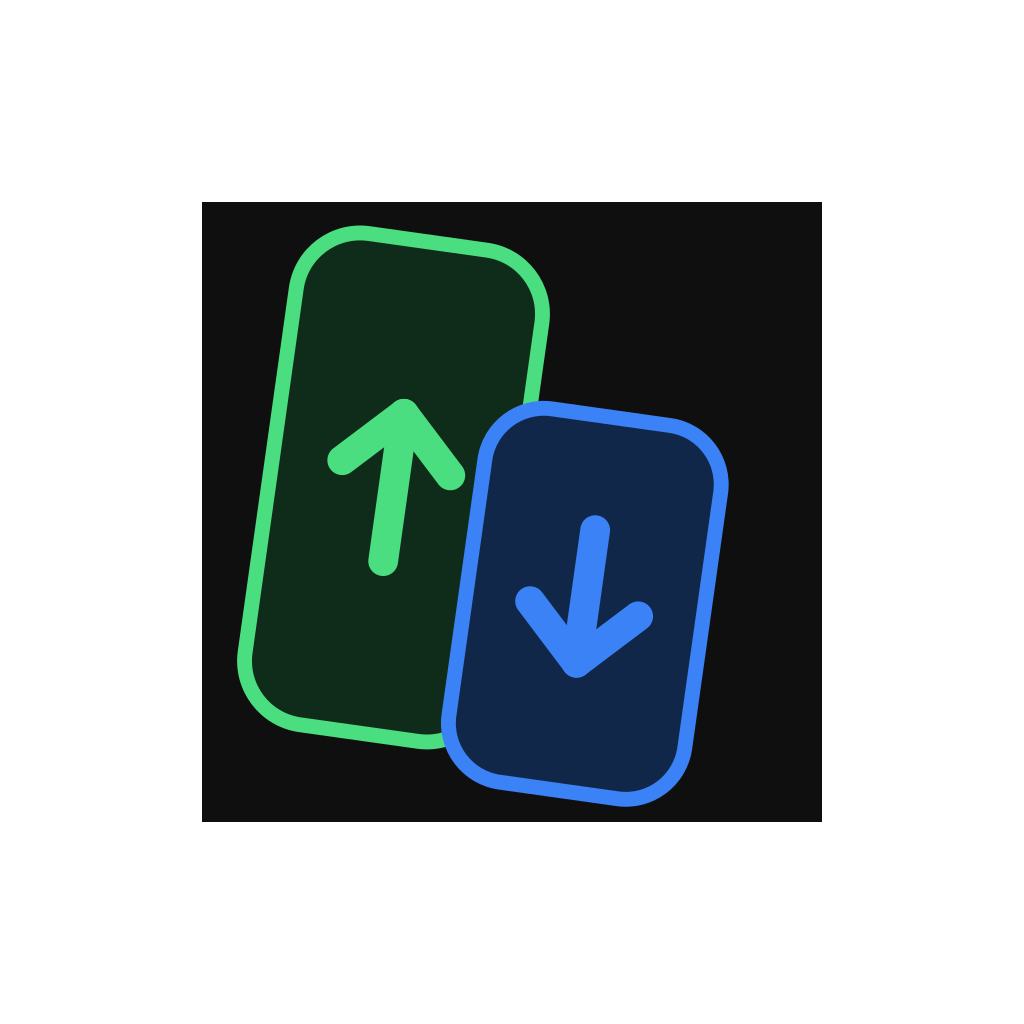
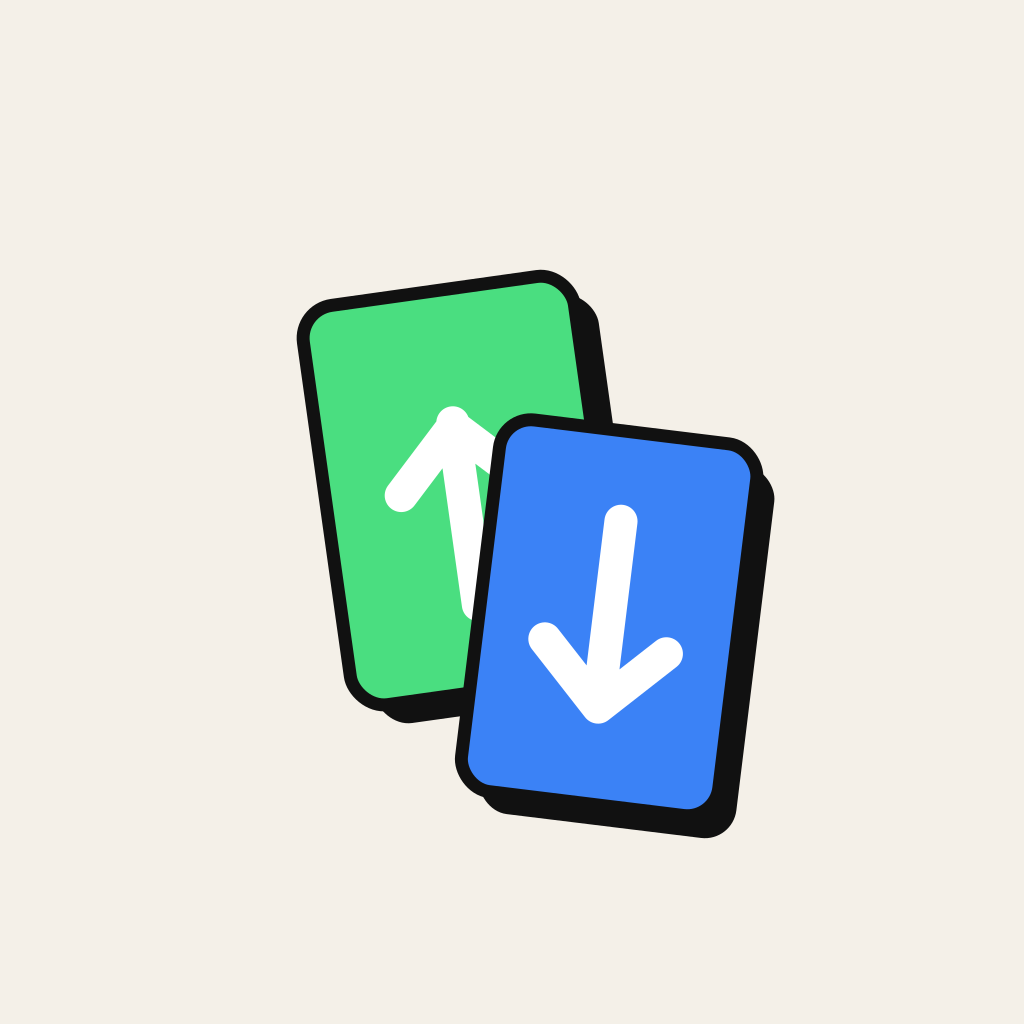
chore: assets updated as per new design

diff --git a/assets/svg/ClipDropLogo.tsx b/assets/svg/ClipDropLogo.tsx
@@ -11,7 +11,11 @@ interface Props {
   blueTranslateY: SharedValue<number>;
 }
 
-const ClipDropLogo = ({ size = 120, greenTranslateY, blueTranslateY }: Props) => {
+const ClipDropLogo = ({
+  size = 120,
+  greenTranslateY,
+  blueTranslateY,
+}: Props) => {
   const greenAnimatedProps = useAnimatedProps(() => ({
     transform: [{ translateY: greenTranslateY.value }],
   }));
@@ -22,23 +26,35 @@ const ClipDropLogo = ({ size = 120, greenTranslateY, blueTranslateY }: Props) =>
 
   return (
     <Svg width={size} height={size} viewBox="0 0 125 125">
-      {/* Upload Card - green, slides up from bottom */}
+      {/* Upload Card */}
       <AnimatedG animatedProps={greenAnimatedProps}>
         <G rotation={8} origin="42,55">
+          {/* Hard shadow */}
+          <Rect x="18" y="12" width="50" height="100" rx="13" fill="#111111" />
+
+          {/* Card */}
           <Rect
             x="14"
             y="8"
             width="50"
             height="100"
             rx="13"
-            fill="#0e2c19"
-            stroke="#4ade80"
+            fill="#FFFFFF"
+            stroke="#111111"
             strokeWidth="3"
           />
-          <Path d="M39 73 L39 43" stroke="#4ade80" strokeWidth="6" strokeLinecap="round" />
+
+          {/* Upload arrow */}
+          <Path
+            d="M39 73 L39 43"
+            stroke="#4ADE80"
+            strokeWidth="6"
+            strokeLinecap="round"
+          />
+
           <Path
             d="M28 54 L39 43 L50 54"
-            stroke="#4ade80"
+            stroke="#4ADE80"
             strokeWidth="6"
             fill="none"
             strokeLinecap="round"
@@ -47,23 +63,35 @@ const ClipDropLogo = ({ size = 120, greenTranslateY, blueTranslateY }: Props) =>
         </G>
       </AnimatedG>
 
-      {/* Download Card - blue, slides down from top */}
+      {/* Download Card */}
       <AnimatedG animatedProps={blueAnimatedProps}>
         <G rotation={8} origin="78,68">
+          {/* Hard shadow */}
+          <Rect x="59" y="47" width="48" height="76" rx="12" fill="#111111" />
+
+          {/* Card */}
           <Rect
             x="55"
             y="43"
             width="48"
             height="76"
             rx="12"
-            fill="#112749"
-            stroke="#3b82f6"
+            fill="#FFFFFF"
+            stroke="#111111"
             strokeWidth="3"
           />
-          <Path d="M79 66 L79 93" stroke="#3b82f6" strokeWidth="6" strokeLinecap="round" />
+
+          {/* Download arrow */}
+          <Path
+            d="M79 66 L79 93"
+            stroke="#4D7CFE"
+            strokeWidth="6"
+            strokeLinecap="round"
+          />
+
           <Path
             d="M68 82 L79 93 L90 82"
-            stroke="#3b82f6"
+            stroke="#4D7CFE"
             strokeWidth="6"
             fill="none"
             strokeLinecap="round"
